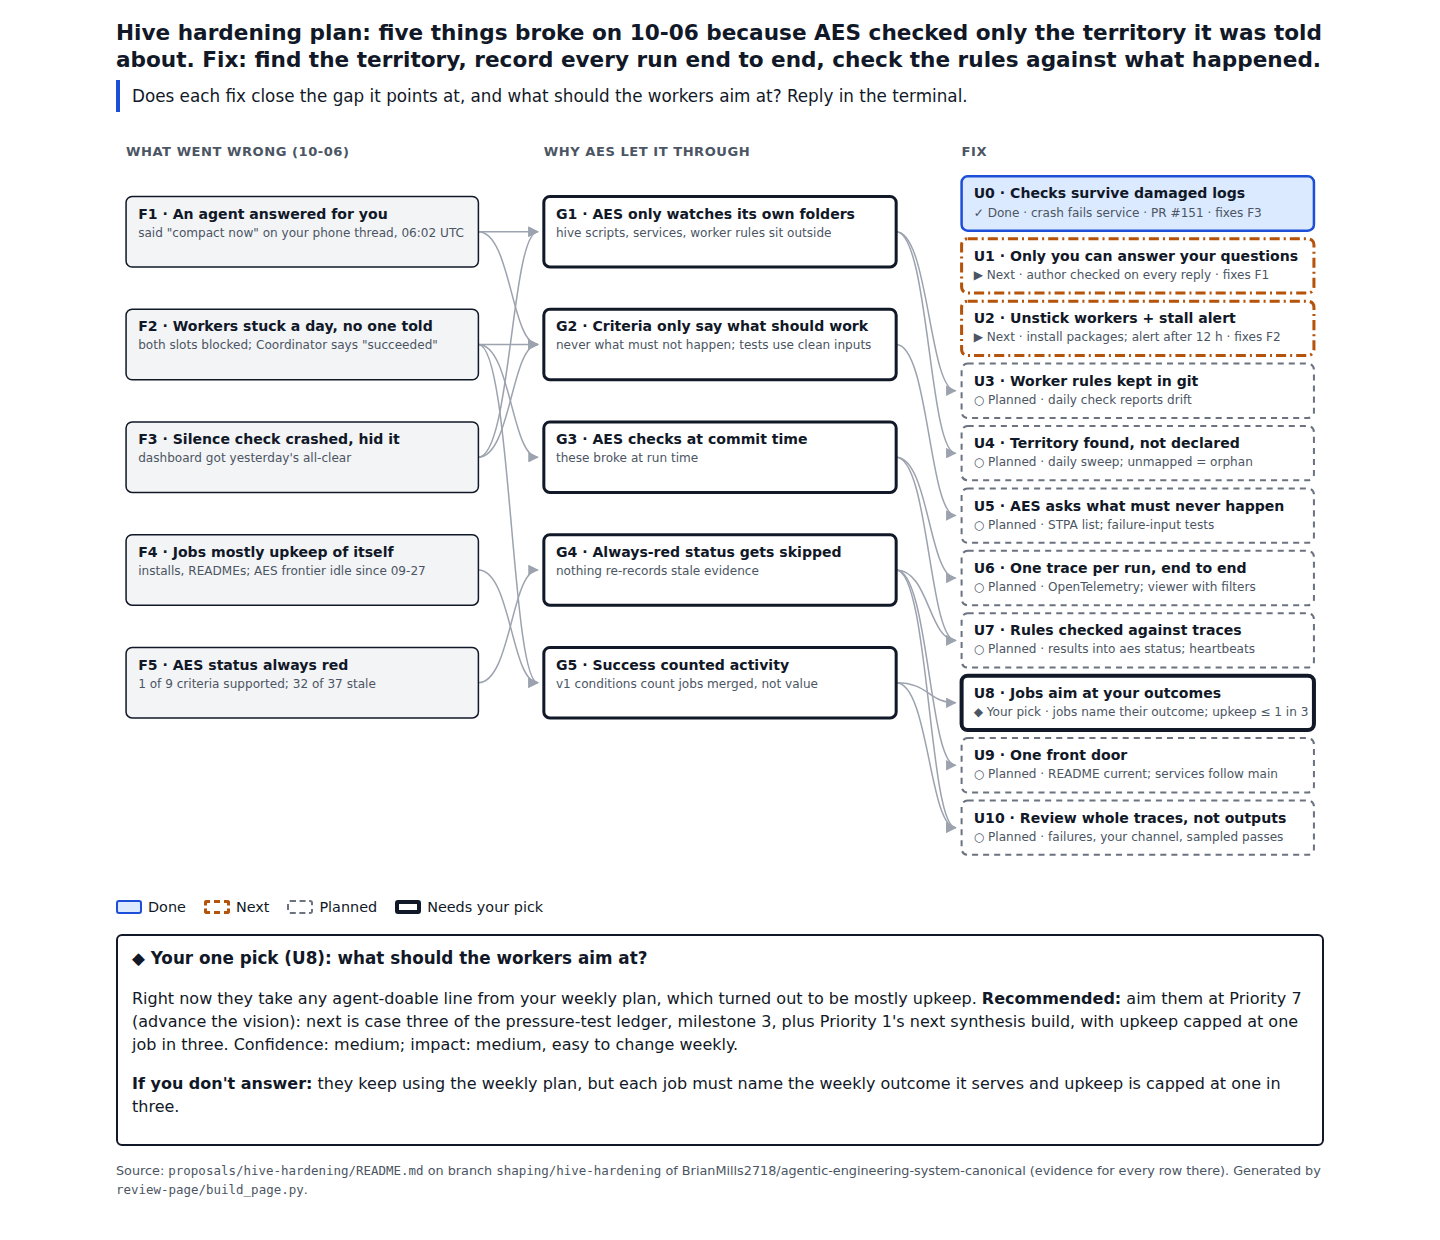
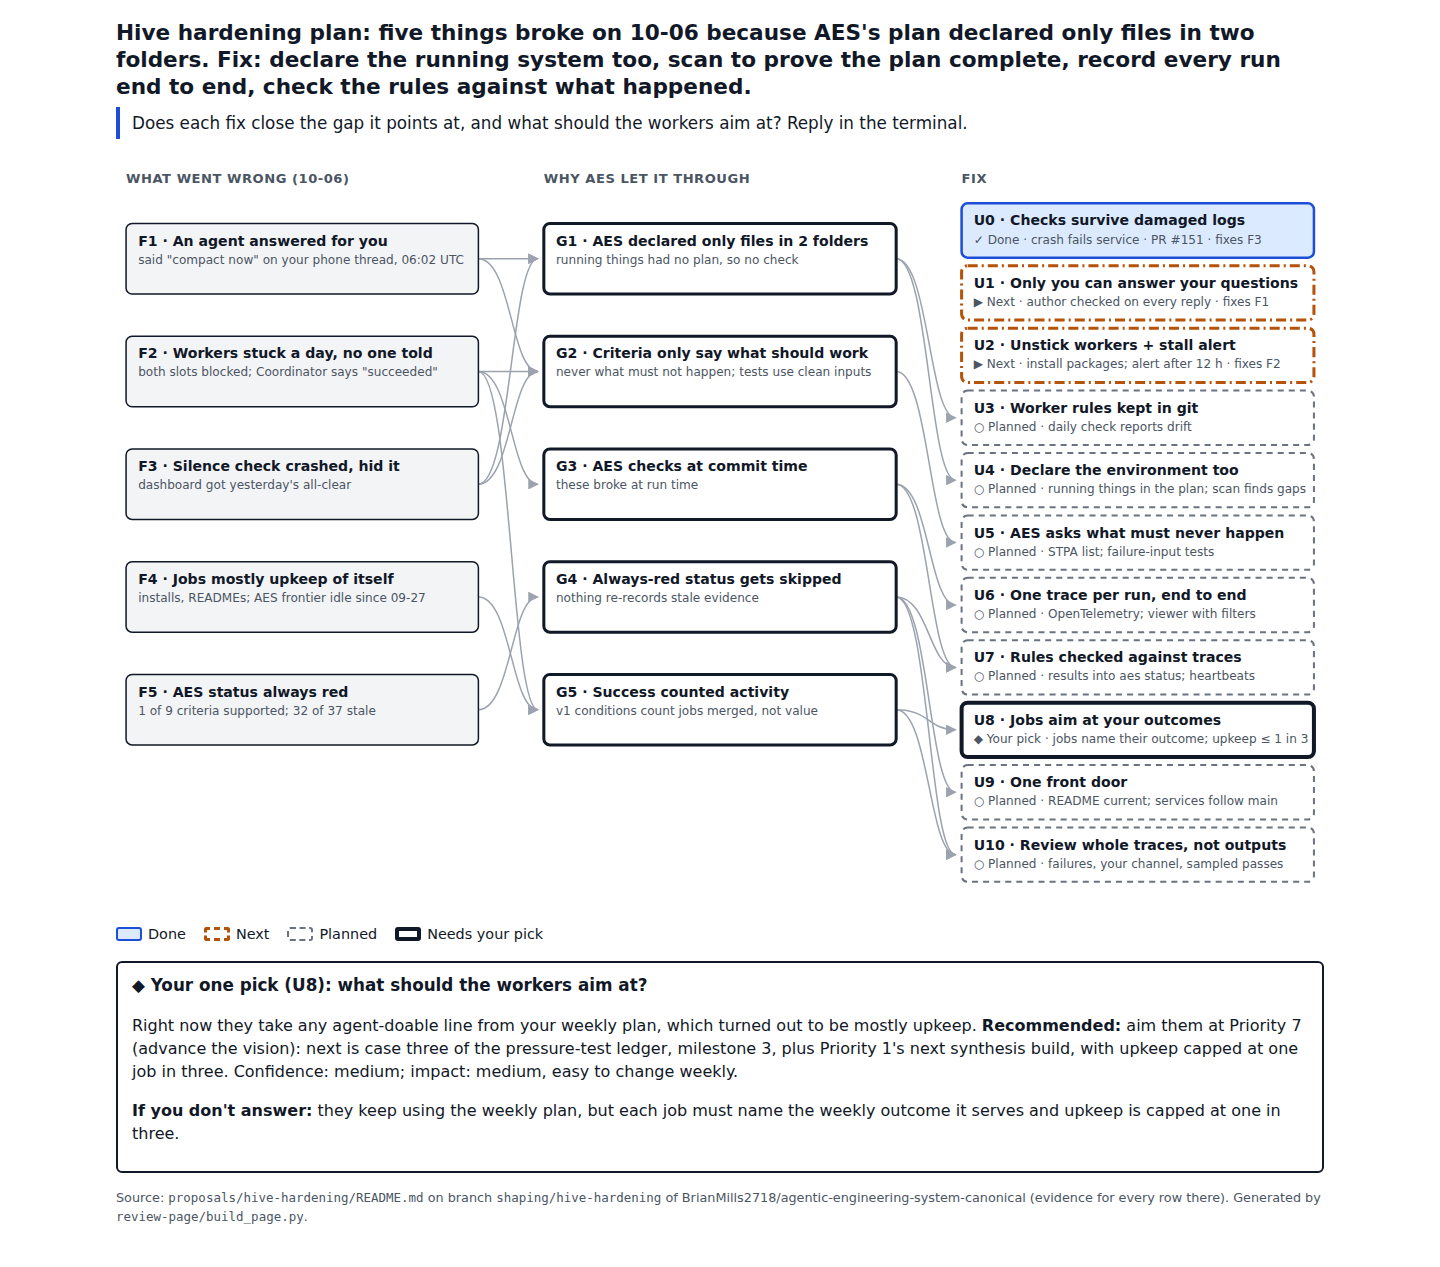
Hive hardening plan: declaration stays the authority; the scan proves it complete
Brian corrected the framing: AES is plan-first and declares the file
structure and environment. The gap is that v0.2 realized declarations for
files in named folders only, with no kinds for running things. U4 now adds
those kinds, makes scope default-in with declared exclusions, and applies
the existing on-disk-versus-plan check to what is running.

Claude-Session: https://claude.ai/code/session_01ViyQfdtdcBf6JPCHqjXEfp

Changed region(s): [[0.0625, 0.0, 0.9375, 0.7048], [0.0625, 0.7048, 0.9375, 0.9806], [0.0938, 0.429, 0.3125, 0.4903]]

diff --git a/proposals/hive-hardening/review-page/hive-hardening-plan.html b/proposals/hive-hardening/review-page/hive-hardening-plan.html
@@ -25,7 +25,7 @@ ul.legend span{display:inline-block;width:26px;height:14px;vertical-align:-2px;m
 .l-done{background:var(--bluefill);border:2.5px solid var(--blue)}.l-next{border:3px dashed var(--orange)}.l-todo{border:2px dashed var(--grey)}.l-you{border:4px solid var(--fg)}
 .decide{border:2px solid var(--fg);border-radius:6px;padding:10px 14px;margin:16px 0}.decide h2{font-size:1.05rem;margin:0 0 6px}
 footer{margin-top:14px;font-size:.8rem;color:var(--muted)}footer code{font-size:.78rem;overflow-wrap:anywhere}</style></head><body><main>
-<h1>Hive hardening plan: five things broke on 10-06 because AES checked only the territory it was told about. Fix: find the territory, record every run end to end, check the rules against what happened.</h1>
+<h1>Hive hardening plan: five things broke on 10-06 because AES's plan declared only files in two folders. Fix: declare the running system too, scan to prove the plan complete, record every run end to end, check the rules against what happened.</h1>
 <p class="q">Does each fix close the gap it points at, and what should the workers aim at? Reply in the terminal.</p>
 <svg class="wide" viewBox="0 0 1200 750" role="img" aria-label="Five failures on the left, each linked to the gaps in AES that let it through in the middle, each gap linked to the fix units on the right with their state.">
 <defs><marker id="ah" viewBox="0 0 10 10" refX="9" refY="5" markerWidth="7" markerHeight="7" orient="auto"><path d="M0,0 L10,5 L0,10 z" class="ahp"/></marker></defs>
@@ -56,7 +56,7 @@ footer{margin-top:14px;font-size:.8rem;color:var(--muted)}footer code{font-size:
 <g class="k-fail"><rect x="10" y="294" width="350" height="70" rx="6"/><text x="22" y="316" class="t-title">F3 · Silence check crashed, hid it</text><text x="22" y="334" class="t-prov">dashboard got yesterday&#x27;s all-clear</text></g>
 <g class="k-fail"><rect x="10" y="406" width="350" height="70" rx="6"/><text x="22" y="428" class="t-title">F4 · Jobs mostly upkeep of itself</text><text x="22" y="446" class="t-prov">installs, READMEs; AES frontier idle since 09-27</text></g>
 <g class="k-fail"><rect x="10" y="518" width="350" height="70" rx="6"/><text x="22" y="540" class="t-title">F5 · AES status always red</text><text x="22" y="558" class="t-prov">1 of 9 criteria supported; 32 of 37 stale</text></g>
-<g class="k-gap"><rect x="425" y="70" width="350" height="70" rx="6"/><text x="437" y="92" class="t-title">G1 · AES only watches its own folders</text><text x="437" y="110" class="t-prov">hive scripts, services, worker rules sit outside</text></g>
+<g class="k-gap"><rect x="425" y="70" width="350" height="70" rx="6"/><text x="437" y="92" class="t-title">G1 · AES declared only files in 2 folders</text><text x="437" y="110" class="t-prov">running things had no plan, so no check</text></g>
 <g class="k-gap"><rect x="425" y="182" width="350" height="70" rx="6"/><text x="437" y="204" class="t-title">G2 · Criteria only say what should work</text><text x="437" y="222" class="t-prov">never what must not happen; tests use clean inputs</text></g>
 <g class="k-gap"><rect x="425" y="294" width="350" height="70" rx="6"/><text x="437" y="316" class="t-title">G3 · AES checks at commit time</text><text x="437" y="334" class="t-prov">these broke at run time</text></g>
 <g class="k-gap"><rect x="425" y="406" width="350" height="70" rx="6"/><text x="437" y="428" class="t-title">G4 · Always-red status gets skipped</text><text x="437" y="446" class="t-prov">nothing re-records stale evidence</text></g>
@@ -65,7 +65,7 @@ footer{margin-top:14px;font-size:.8rem;color:var(--muted)}footer code{font-size:
 <g class="k-unit st-next"><rect x="840" y="112" width="350" height="54" rx="6"/><text x="852" y="134" class="t-title">U1 · Only you can answer your questions</text><text x="852" y="152" class="t-prov">▶ Next · author checked on every reply · fixes F1</text></g>
 <g class="k-unit st-next"><rect x="840" y="174" width="350" height="54" rx="6"/><text x="852" y="196" class="t-title">U2 · Unstick workers + stall alert</text><text x="852" y="214" class="t-prov">▶ Next · install packages; alert after 12 h · fixes F2</text></g>
 <g class="k-unit st-todo"><rect x="840" y="236" width="350" height="54" rx="6"/><text x="852" y="258" class="t-title">U3 · Worker rules kept in git</text><text x="852" y="276" class="t-prov">○ Planned · daily check reports drift</text></g>
-<g class="k-unit st-todo"><rect x="840" y="298" width="350" height="54" rx="6"/><text x="852" y="320" class="t-title">U4 · Territory found, not declared</text><text x="852" y="338" class="t-prov">○ Planned · daily sweep; unmapped = orphan</text></g>
+<g class="k-unit st-todo"><rect x="840" y="298" width="350" height="54" rx="6"/><text x="852" y="320" class="t-title">U4 · Declare the environment too</text><text x="852" y="338" class="t-prov">○ Planned · running things in the plan; scan finds gaps</text></g>
 <g class="k-unit st-todo"><rect x="840" y="360" width="350" height="54" rx="6"/><text x="852" y="382" class="t-title">U5 · AES asks what must never happen</text><text x="852" y="400" class="t-prov">○ Planned · STPA list; failure-input tests</text></g>
 <g class="k-unit st-todo"><rect x="840" y="422" width="350" height="54" rx="6"/><text x="852" y="444" class="t-title">U6 · One trace per run, end to end</text><text x="852" y="462" class="t-prov">○ Planned · OpenTelemetry; viewer with filters</text></g>
 <g class="k-unit st-todo"><rect x="840" y="484" width="350" height="54" rx="6"/><text x="852" y="506" class="t-title">U7 · Rules checked against traces</text><text x="852" y="524" class="t-prov">○ Planned · results into aes status; heartbeats</text></g>
@@ -75,12 +75,12 @@ footer{margin-top:14px;font-size:.8rem;color:var(--muted)}footer code{font-size:
 </svg>
 <div class="narrow">
 <section class="card"><h2>F1 · An agent answered for you</h2><p class="sub">said &quot;compact now&quot; on your phone thread, 06:02 UTC</p><p class="lbl">Why AES let it through</p><ul>
-<li><b>G1</b> AES only watches its own folders: hive scripts, services, worker rules sit outside</li>
+<li><b>G1</b> AES declared only files in 2 folders: running things had no plan, so no check</li>
 <li><b>G2</b> Criteria only say what should work: never what must not happen; tests use clean inputs</li>
 </ul><p class="lbl">Fix</p><ul>
 <li class="st-next"><b>U1</b> Only you can answer your questions <span class="badge">▶ Next</span></li>
 <li class="st-todo"><b>U3</b> Worker rules kept in git <span class="badge">○ Planned</span></li>
-<li class="st-todo"><b>U4</b> Territory found, not declared <span class="badge">○ Planned</span></li>
+<li class="st-todo"><b>U4</b> Declare the environment too <span class="badge">○ Planned</span></li>
 <li class="st-todo"><b>U5</b> AES asks what must never happen <span class="badge">○ Planned</span></li>
 </ul></section>
 <section class="card"><h2>F2 · Workers stuck a day, no one told</h2><p class="sub">both slots blocked; Coordinator says &quot;succeeded&quot;</p><p class="lbl">Why AES let it through</p><ul>
@@ -96,12 +96,12 @@ footer{margin-top:14px;font-size:.8rem;color:var(--muted)}footer code{font-size:
 <li class="st-todo"><b>U10</b> Review whole traces, not outputs <span class="badge">○ Planned</span></li>
 </ul></section>
 <section class="card"><h2>F3 · Silence check crashed, hid it</h2><p class="sub">dashboard got yesterday&#x27;s all-clear</p><p class="lbl">Why AES let it through</p><ul>
-<li><b>G1</b> AES only watches its own folders: hive scripts, services, worker rules sit outside</li>
+<li><b>G1</b> AES declared only files in 2 folders: running things had no plan, so no check</li>
 <li><b>G2</b> Criteria only say what should work: never what must not happen; tests use clean inputs</li>
 </ul><p class="lbl">Fix</p><ul>
 <li class="st-done"><b>U0</b> Checks survive damaged logs <span class="badge">✓ Done</span></li>
 <li class="st-todo"><b>U3</b> Worker rules kept in git <span class="badge">○ Planned</span></li>
-<li class="st-todo"><b>U4</b> Territory found, not declared <span class="badge">○ Planned</span></li>
+<li class="st-todo"><b>U4</b> Declare the environment too <span class="badge">○ Planned</span></li>
 <li class="st-todo"><b>U5</b> AES asks what must never happen <span class="badge">○ Planned</span></li>
 </ul></section>
 <section class="card"><h2>F4 · Jobs mostly upkeep of itself</h2><p class="sub">installs, READMEs; AES frontier idle since 09-27</p><p class="lbl">Why AES let it through</p><ul>

diff --git a/proposals/hive-hardening/review-page/build_page.py b/proposals/hive-hardening/review-page/build_page.py
@@ -13,7 +13,7 @@ FAILURES = [
     ("F5", "AES status always red", "1 of 9 criteria supported; 32 of 37 stale"),
 ]
 GAPS = [
-    ("G1", "AES only watches its own folders", "hive scripts, services, worker rules sit outside"),
+    ("G1", "AES declared only files in 2 folders", "running things had no plan, so no check"),
     ("G2", "Criteria only say what should work", "never what must not happen; tests use clean inputs"),
     ("G3", "AES checks at commit time", "these broke at run time"),
     ("G4", "Always-red status gets skipped", "nothing re-records stale evidence"),
@@ -25,7 +25,7 @@ UNITS = [
     ("U1", "Only you can answer your questions", "author checked on every reply", "next", ["F1"]),
     ("U2", "Unstick workers + stall alert", "install packages; alert after 12 h", "next", ["F2"]),
     ("U3", "Worker rules kept in git", "daily check reports drift", "todo", ["G1"]),
-    ("U4", "Territory found, not declared", "daily sweep; unmapped = orphan", "todo", ["G1"]),
+    ("U4", "Declare the environment too", "running things in the plan; scan finds gaps", "todo", ["G1"]),
     ("U5", "AES asks what must never happen", "STPA list; failure-input tests", "todo", ["G2"]),
     ("U6", "One trace per run, end to end", "OpenTelemetry; viewer with filters", "todo", ["G3"]),
     ("U7", "Rules checked against traces", "results into aes status; heartbeats", "todo", ["G3", "G4"]),
@@ -132,7 +132,7 @@ plus Priority 1's next synthesis build, with upkeep capped at one job in three. 
 def main() -> None:
     html = f"""<!doctype html><html lang="en"><head><meta charset="utf-8"><meta name="viewport" content="width=device-width,initial-scale=1">
 <title>Hive hardening plan</title><style>{CSS}</style></head><body><main>
-<h1>Hive hardening plan: five things broke on 10-06 because AES checked only the territory it was told about. Fix: find the territory, record every run end to end, check the rules against what happened.</h1>
+<h1>Hive hardening plan: five things broke on 10-06 because AES's plan declared only files in two folders. Fix: declare the running system too, scan to prove the plan complete, record every run end to end, check the rules against what happened.</h1>
 <p class="q">Does each fix close the gap it points at, and what should the workers aim at? Reply in the terminal.</p>
 {svg()}
 {narrow()}

diff --git a/proposals/hive-hardening/README.md b/proposals/hive-hardening/README.md
@@ -29,9 +29,9 @@ AES did what it was built to do: it checks, at commit time, that every file unde
 
 Brian, 2026-10-06: "how do we make sure that aes checks all relevant territories ... this seems to relate to my general principle of maximum observability (although there should be filters/views) and always reviewing full e2e traces of stuff not just the final output."
 
-The territory problem has one root: AES's territory was **declared** (two folders written into `target.yaml`), so anything nobody declared was invisible by construction. The fix turns each of the five gaps around:
+AES is plan-first, and stays so: the plan declares what should exist, and anything it does not name is refused. Brian, 2026-10-06: "i thought the whole thing with aes was that we werent finding things. we were declaring the whole file structure and environment and stuff as part of the plans themselves." That is the design (`docs/architecture/greenfield-v0.2/13-greenfield-materialization.md`: native code "and deployment configuration as appropriate"; `23-greenfield-cli-product-contract.md`: observations from "runtime probes"). The v0.2 MVP realized less: it declares files only, only inside named governed roots (default `src/` and `tests/`), lists "deployment/operations workflows" and runtime probes as not realized, and its artifact kinds (source, test, configuration, behavior, constraint, invariant) have no word for a running thing. So the hive was never declared, and nothing outside the named roots was ever compared against a plan. The fix turns each of the five gaps around:
 
-1. **Territory is discovered, not declared (U4).** A sweep of what is actually running on Brian's behalf, with every item mapped to a target or explicitly excused. AES already refuses an unplanned file under a governed folder; this applies the same orphan rule to timers, containers, hooks, agents and their rules.
+1. **Declare everything; scan to prove the declaration complete (U4).** A declaration is only as complete as its author's memory unless something compares it with reality. AES already does that for files: `aes topology check` lists the files on disk under a governed root and refuses any the plan does not name. U4 adds kinds for running things, makes the whole repository and the declared machines in scope by default (exclusions declared with a reason), and applies the same comparison to what is running. The scan never adds anything to the plan; it only reports what the plan failed to declare.
 2. **Everything is recorded, views filter (U6).** Maximum observability means keeping every step of every run, joined by one run id; filters and views (by run, by actor, failures only, Brian-facing only) are how a person or agent reads it, never a reason to record less.
 3. **Rules are checked against what happened (U7).** Must-never criteria run as queries over the traces, so a rule is evidenced by the system's behaviour, not by a unit test of one function.
 4. **Review reads whole traces (U10).** A final output ("succeeded", "merged", "12 ok") is a stand-in for what happened; a reviewer reads the run end to end. One Coordinator trace read end to end would have shown "woke, read two blocked tasks, did nothing, rescheduled", twelve times.
@@ -49,7 +49,7 @@ Fix the instance first (U0 to U2), then the causes (U3 to U9). Each unit names t
 | U1 | Only Brian can answer his questions: the relay marks a reply as Brian's only when it comes from his Telegram account or his dashboard login; system alerts post under a bot identity, not his; the worker rules forbid answering on his decision threads; anything that acts on a reply (the disk alert's "compact now") checks the author | F1 | a test reply "compact now" posted by an agent is ignored by every consumer and logged; the same reply from Brian's identity is accepted | next |
 | U2 | Unstick the workers: install uv and the repositories' packages in the worker container so `make check` runs; unblock BRI-38 and BRI-44; add a "job progress" control that alerts Brian's phone when both slots are full and no task moved for 12 hours | F2 | BRI-38 and BRI-44 leave `blocked`; replaying the 2026-10-05/06 board data makes the new control fire | next |
 | U3 | Worker rules in git: export each Paperclip agent's instructions to a tracked folder; `settings_check.py` compares live against git and reports drift | G1 | an edit made only through the board API shows as a DIFF in the daily check | planned |
-| U4 | Territory is found, not declared: a daily sweep lists everything that acts for Brian (systemd timers and services on WSL and the server, containers, Claude and Codex hooks and plugins, Paperclip agents and their rules, scripts that post to his channel). Each item maps to a component in some repository's AES target or carries a written "not governed because" with an owner; anything else is an orphan and fails `aes status`, the same rule AES already applies to files. The hive gets its target and must-never criteria N1 to N4 this way | G1 | the sweep's first run lists `c-drive-guard`, `hive-controls` and the four Paperclip agents, each mapped; a deliberately added unmapped timer fails the check | planned |
+| U4 | Declare the whole environment, and scan to prove the declaration is complete. (a) The plan's vocabulary gains kinds for running things: scheduled job, service or container, agent with its rules file, and channel with who may act on it; the hive's are declared in its target with must-never criteria N1 to N4. (b) Governed by default: the whole repository and the declared machines are in scope, and anything left out is a declared exclusion with a reason and an owner, instead of being in scope only when named. (c) The check already applied to files (list what is on disk, refuse what the plan does not name) is applied to what is running: a daily sweep lists timers, services and containers on WSL and the server, Claude and Codex hooks, Paperclip agents and their rules, and anything that posts to Brian's channel, and an item the plan does not name fails `aes status` | G1 | the hive's timers, services and four agents are declared in a target; a deliberately added undeclared timer turns `aes status` red the next day | planned |
 | U5 | AES asks what must never happen: `aes plan validate` requires each outcome to carry at least one must-never criterion whose test uses a failure input, and says which outcomes lack one | G2 | validate flags an outcome without one in this repository and in whygame5 | planned |
 | U6 | One trace per run: every run (a hive job, a check, an agent session) carries one run id through each step it touches: board task, agent session and its tool calls, commits, checks with counts and exit code, merge, message to Brian, with the author of every step. Format OpenTelemetry (Claude Code exports it natively); raw spans append to one file per day; a self-hosted viewer gives the filters and views (Arize Phoenix on the server, confirmed by sending one real session first). Paperclip's own run logs, `lastUsefulActionAt` and liveness fields are joined in by run id, not rebuilt | G3 | one real hive job can be followed from its board task to its merge and report in the viewer without opening another tool |  planned |
 | U7 | Must-never rules checked against the traces, results into AES: each rule (N1 only Brian approves, N2 a crash never reads as a pass, N3 no 12-hour stall unreported, N4 every scheduled check reported in its window) is a saved query over the day's traces, recorded as an AES run-time observation, so `aes status` shows what happened, not only what was committed. A check that does not run at all is caught by a missed-heartbeat ping. Stale test evidence is re-run nightly and refutations are listed first | G3, G4 | replaying the 2026-10-06 traces makes N1, N2 and N3 report REFUTED; a check stopped on purpose shows as missed within its window | planned |
